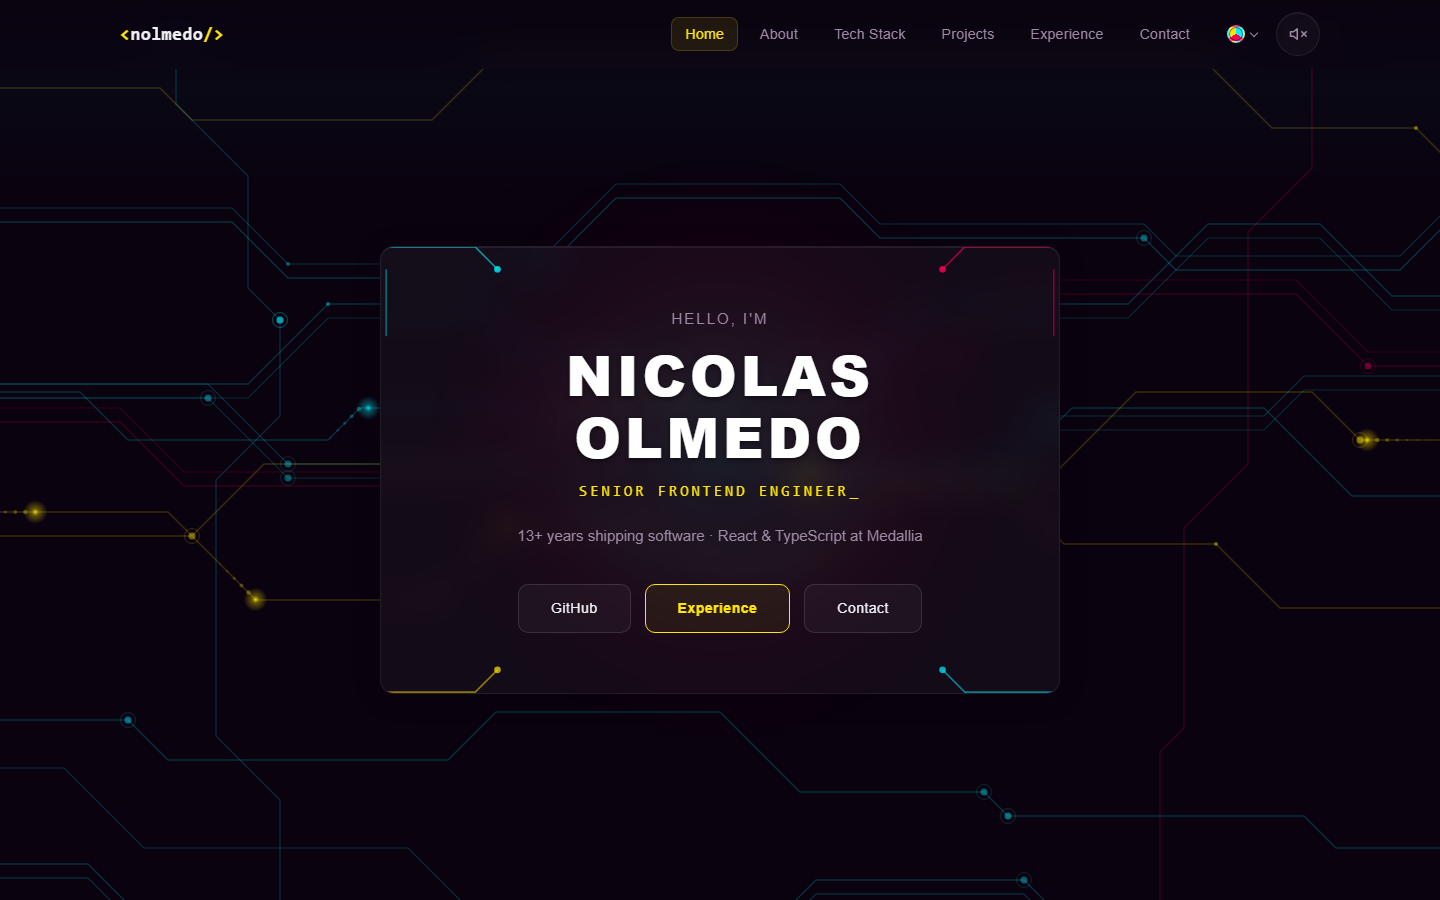
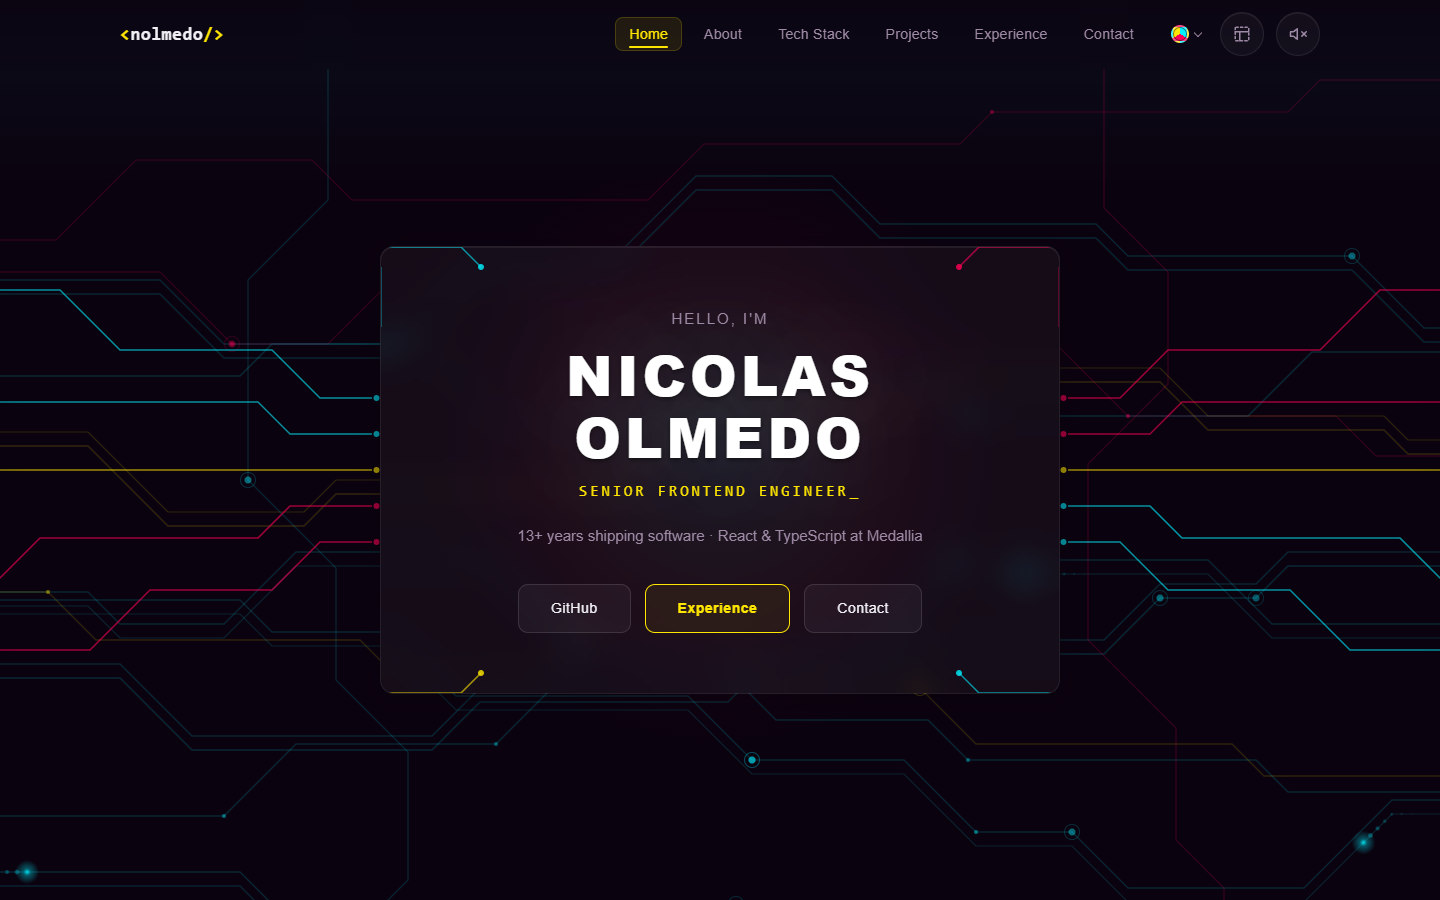
docs(readme): refresh screenshots and add the blueprint view
Recapture the hero and projects screenshots after the hero fan-out change,
add a blueprint view screenshot, and correct the projects grid description.

diff --git a/README.md b/README.md
@@ -14,7 +14,7 @@
 An interactive, AI-agent-friendly portfolio with a procedural PCB background rendered in
 real time, synthesized audio feedback, haptics, and five switchable neon themes.
 
-<img src="docs/screenshots/hero-default.png" width="100%" alt="Hero section with the procedural PCB background in the default green/cyan/purple theme">
+<img src="docs/screenshots/hero-default.png" width="100%" alt="Hero section in the default green/cyan/purple theme: the hero card is wired into the procedural PCB background through pins and fan-out traces">
 
 </div>
 
@@ -54,13 +54,17 @@ The background is a small physics-flavored simulation, not a static asset
 <table>
 <tr>
 <td width="50%"><img src="docs/screenshots/hero-cyberpunk.png" alt="The same hero section switched to the cyberpunk theme, PCB traces recolored to yellow, magenta and cyan"></td>
-<td width="50%"><img src="docs/screenshots/projects.png" alt="The projects grid: five cards over the PCB background, the odd fifth card centered and spanning both columns"></td>
+<td width="50%"><img src="docs/screenshots/projects.png" alt="The projects grid over the PCB background: a full-width featured card, two rows of two cards, and a centered last card"></td>
 </tr>
 <tr>
 <td><b>Live theme switch</b> — the PCB background, text, and every accent cross-fade to <code>cyberpunk</code> without a reload.</td>
-<td><b>Projects grid</b> — each card's accent color comes from the active theme's CSS variables; the fifth, odd card spans both columns.</td>
+<td><b>Projects grid</b> — each card's accent color comes from the active theme's CSS variables; the featured project spans the full width and a lone last card is centered.</td>
 </tr>
 </table>
+
+<img src="docs/screenshots/hero-blueprint.png" width="100%" alt="The hero section in blueprint view: components drawn as outlines on a drafting grid, labeled with their selector and measured size, with a design spec panel listing theme tokens and contrast ratios">
+
+**Blueprint view** — the same page drawn as its own plan, with every section and panel labeled from the live DOM.
 
 ## Built for AI Agents
 
